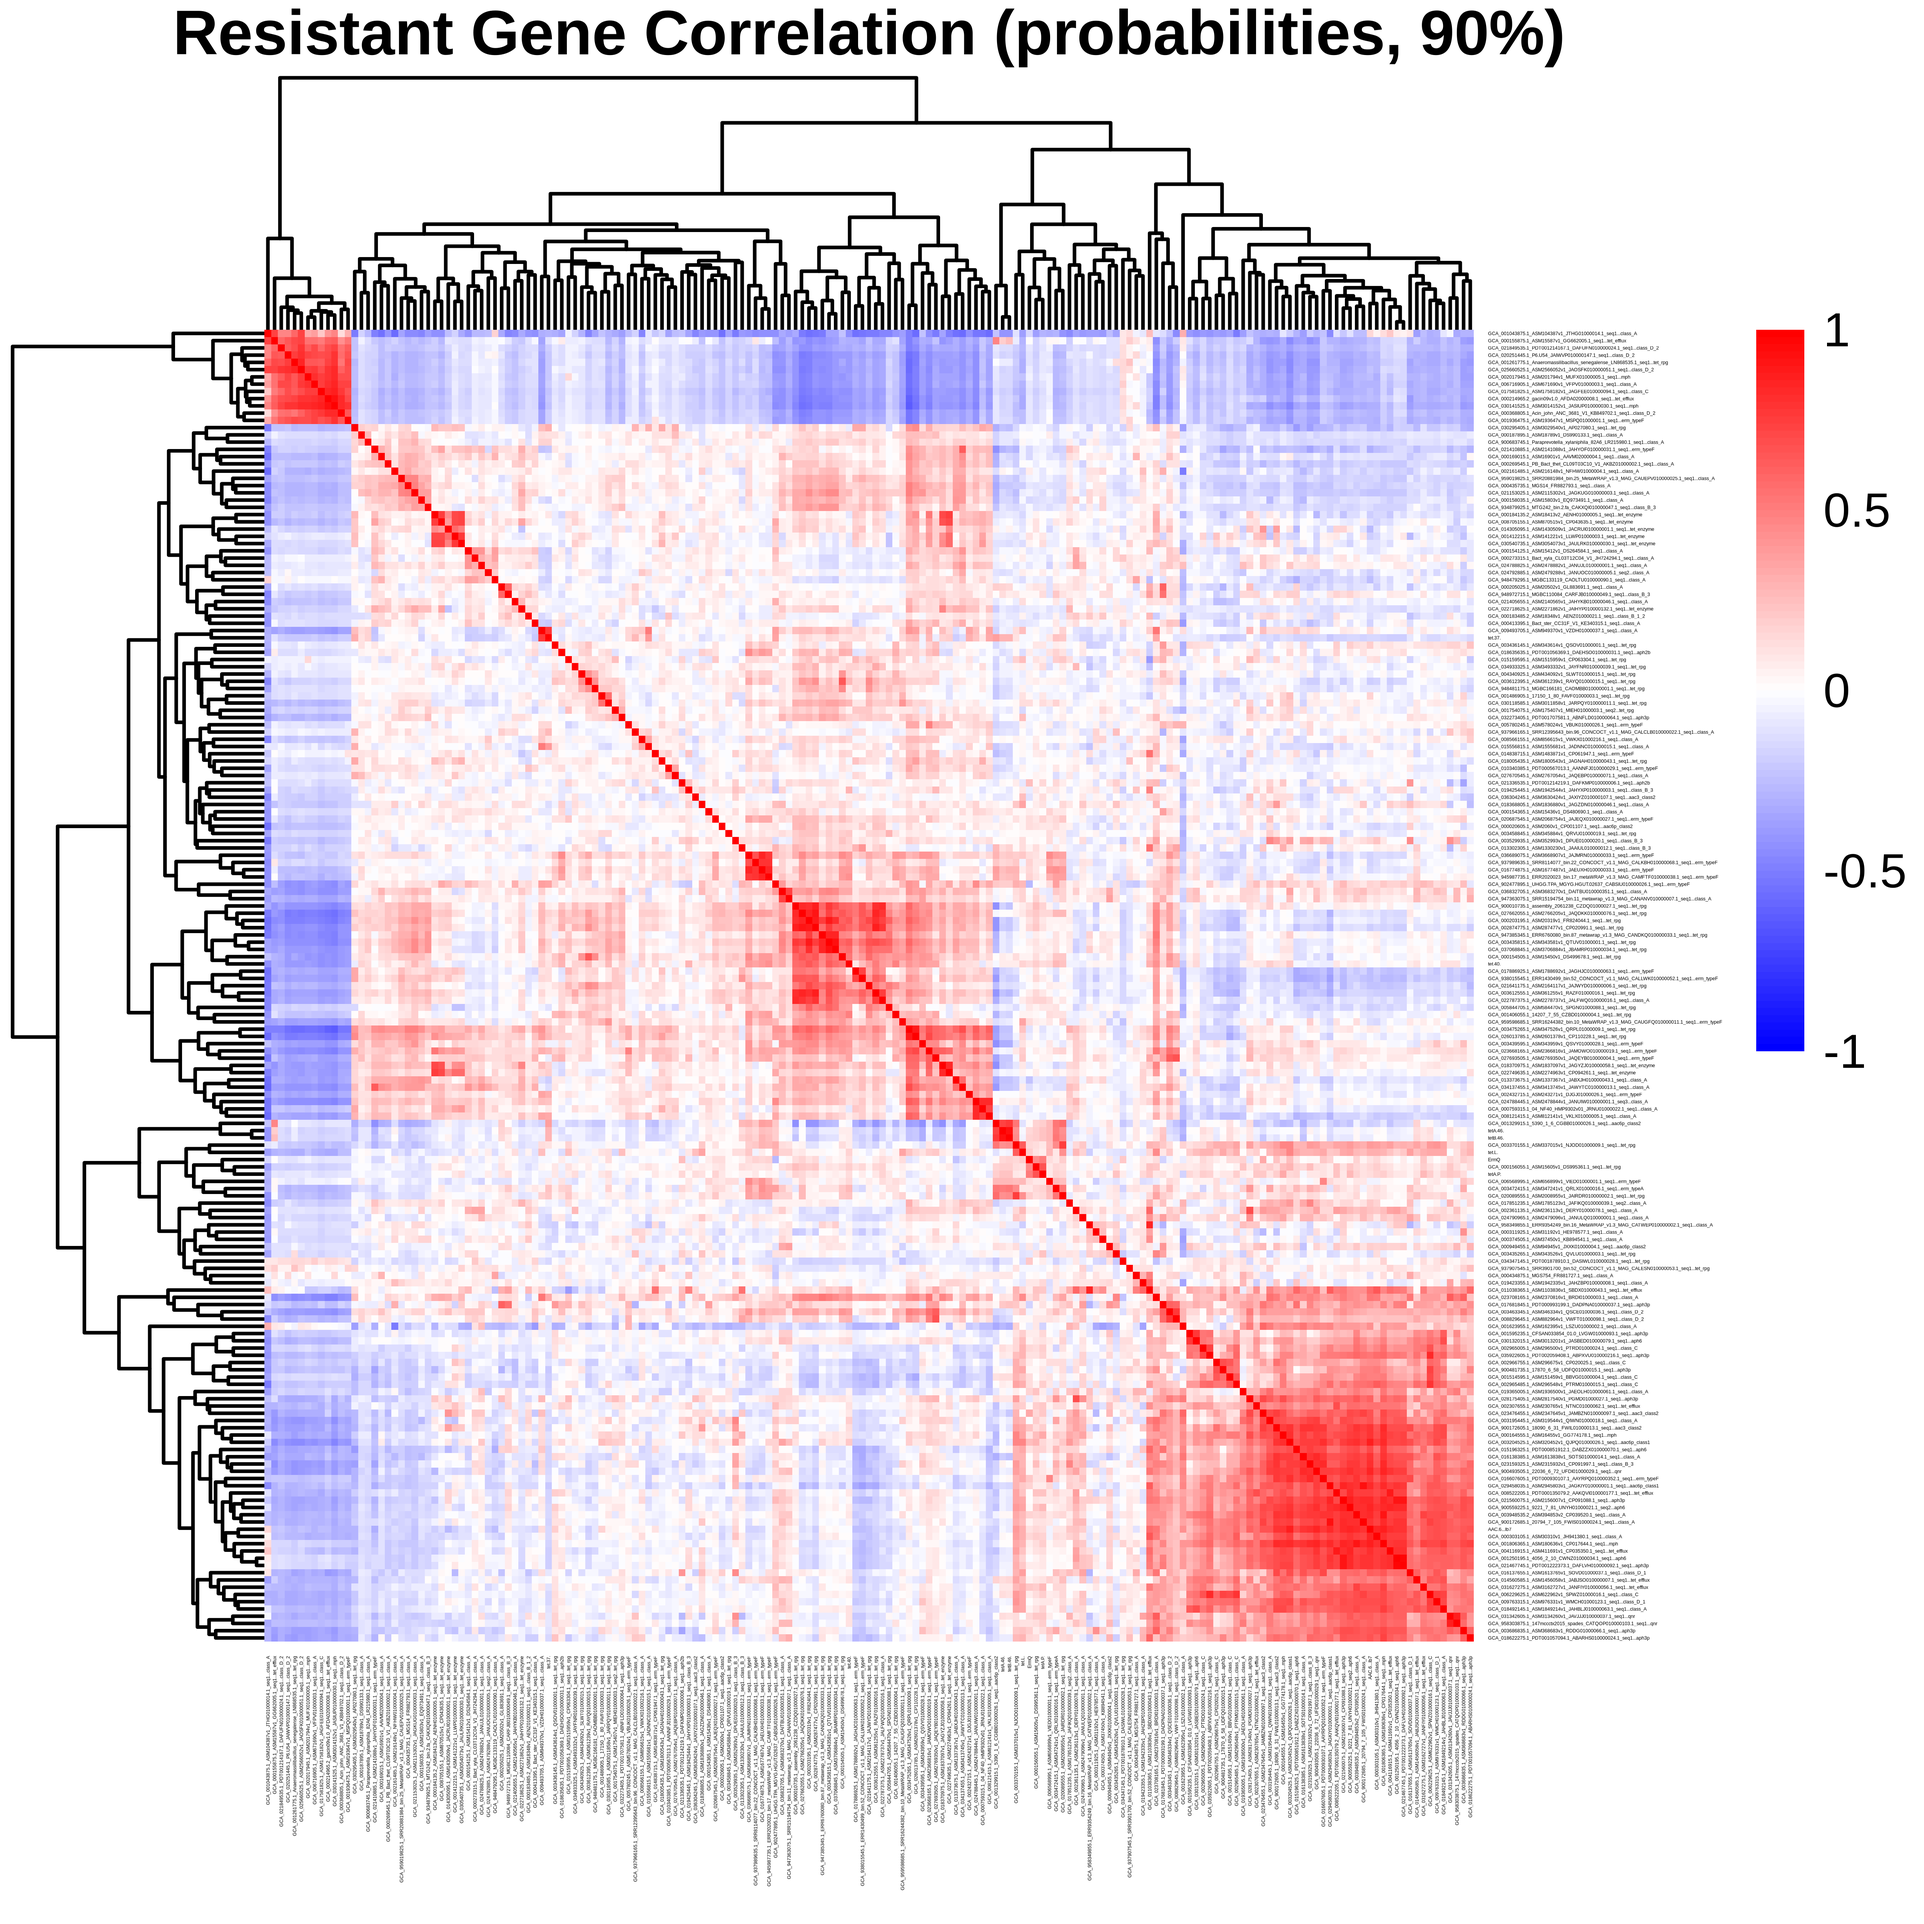
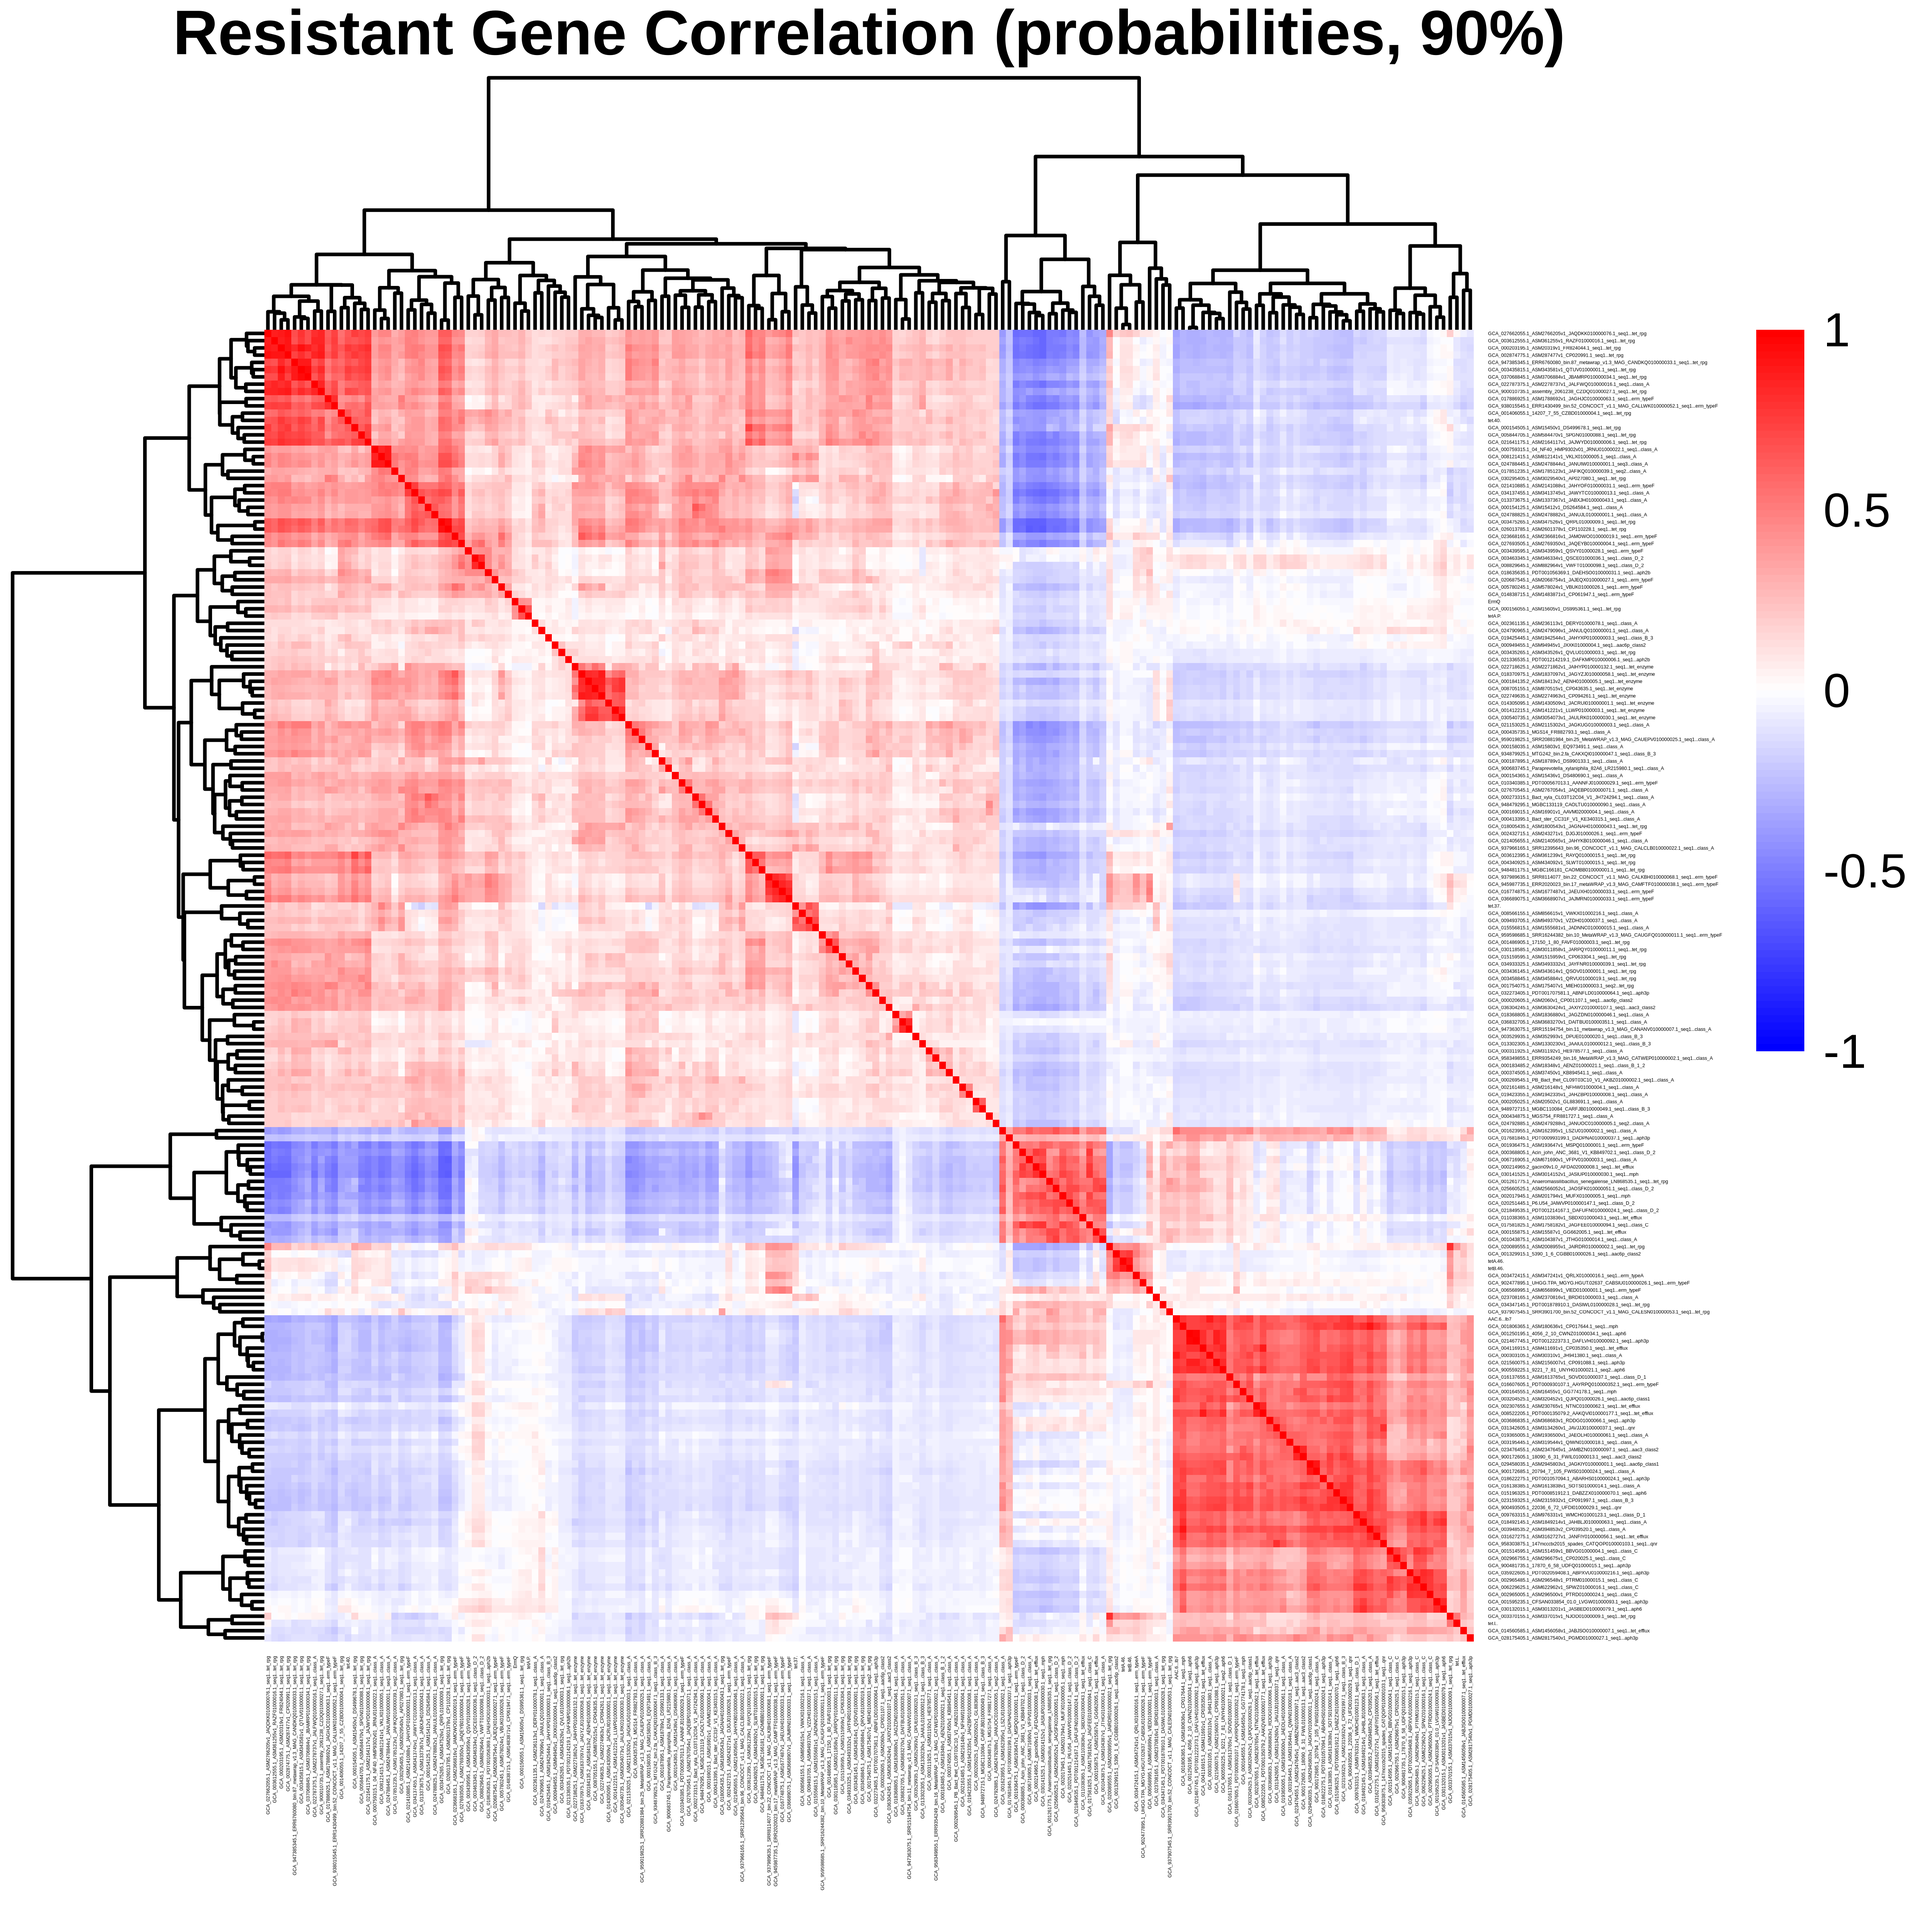
ändrat < i korrelation och gjort heatmaps

diff --git a/blast_code/filter_count.py b/blast_code/filter_count.py
@@ -15,3 +15,4 @@ with open(filtered_count_matrix, "r") as infile, open(genes_in_original_hosts, "
                 
 
 # relevant ens?
+# filter på höga counts, vi vil ha kvar dem
